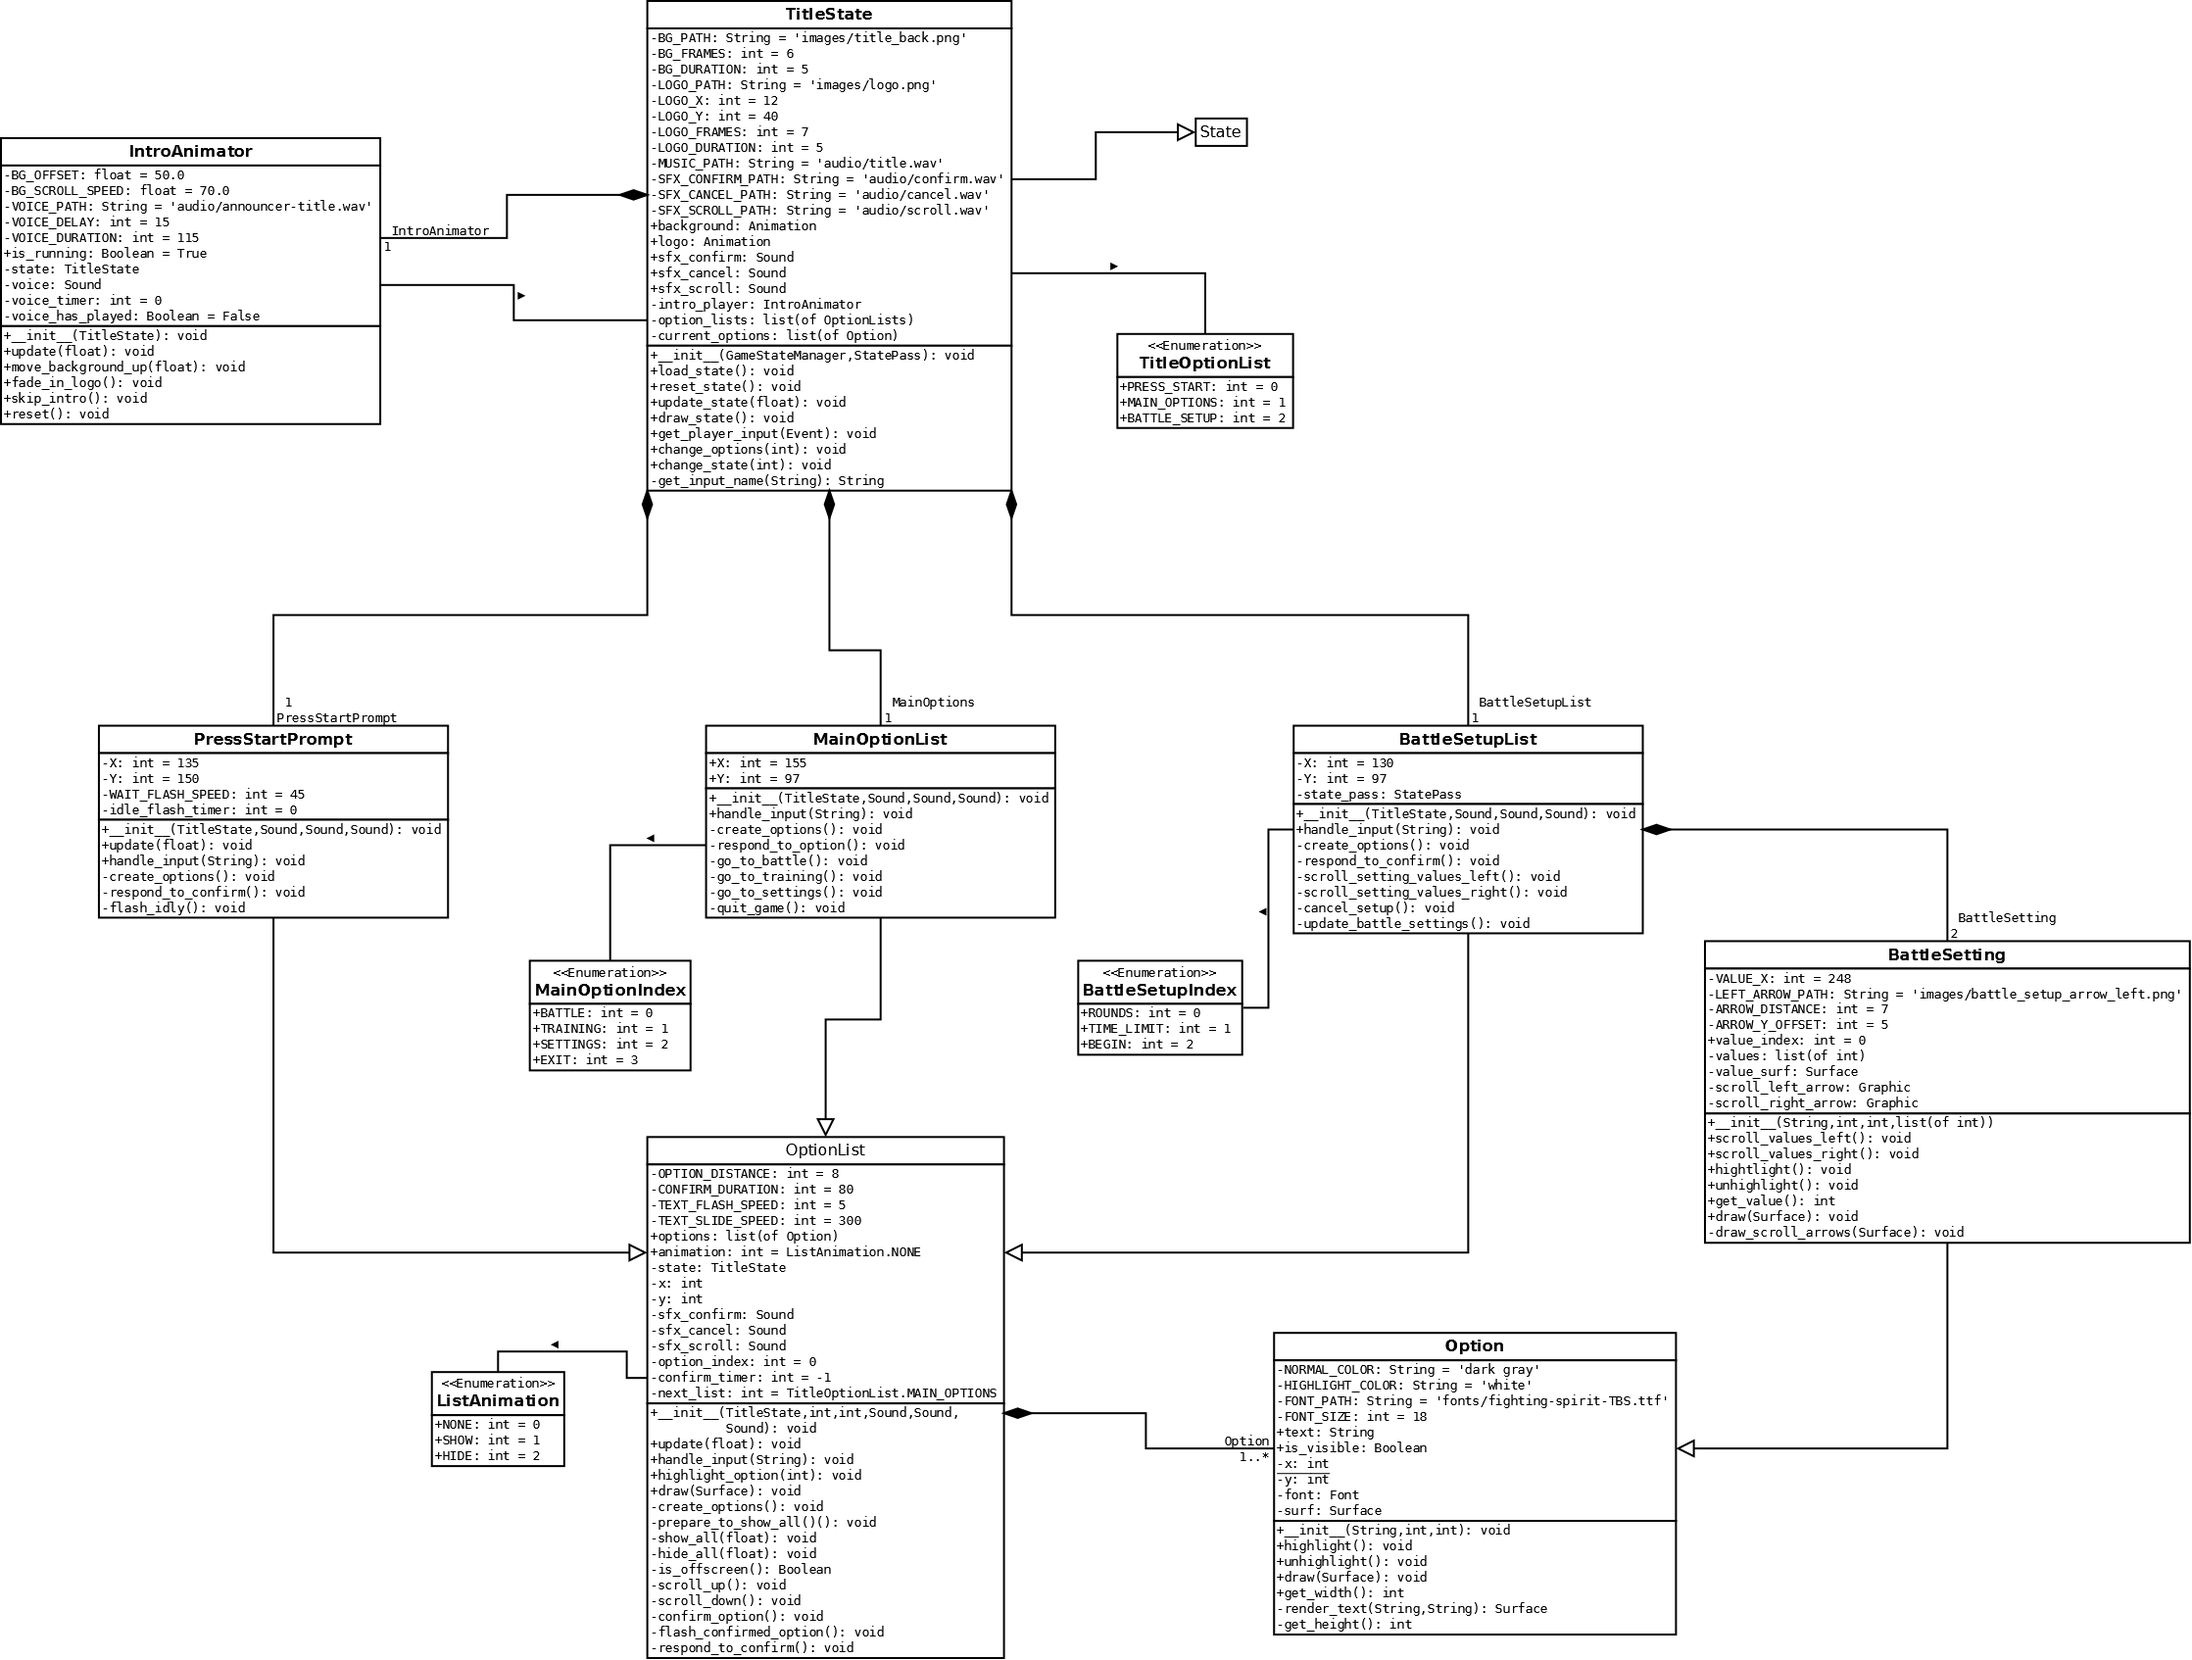
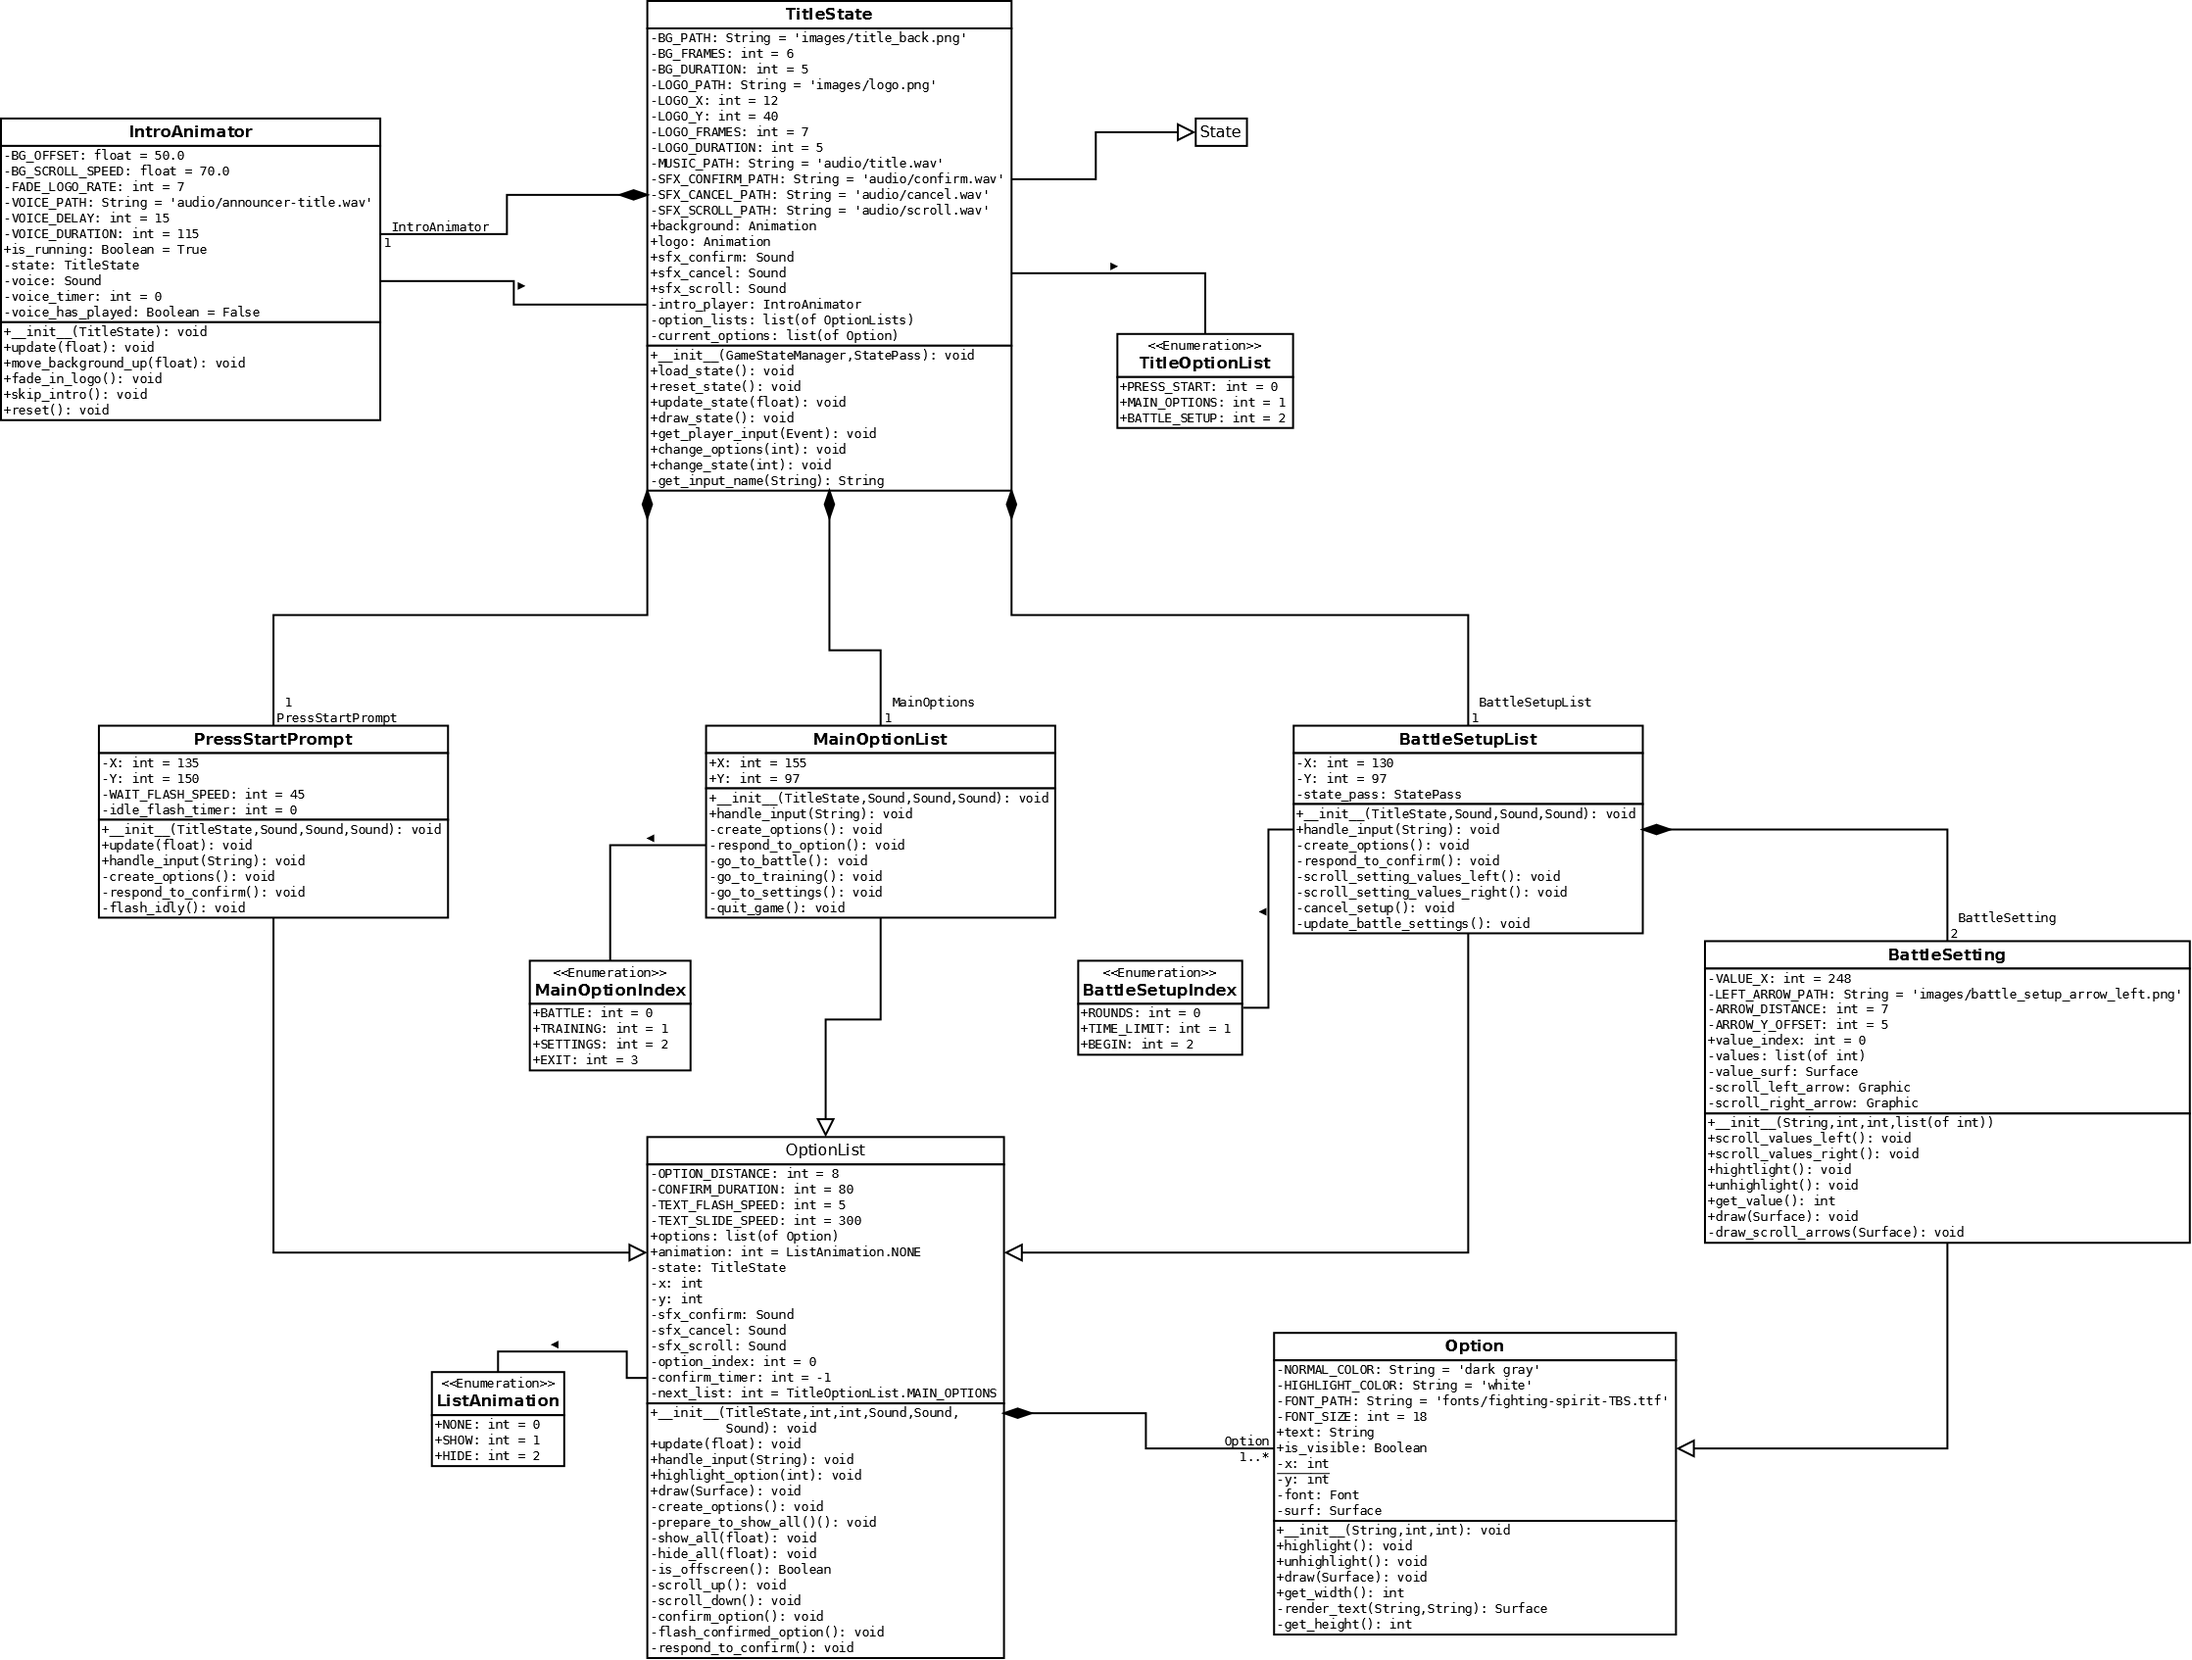
IntroAnimator: Add FADE_LOGO_RATE constant
Again, unnamed numeric constants are bad.

Changed region(s): [[0.0, 0.0614, 0.1542, 0.2763], [0.1542, 0.1228, 0.2468, 0.1842]]

diff --git a/lib/game_states/title_state_new.py b/lib/game_states/title_state_new.py
@@ -44,6 +44,7 @@ class IntroAnimator(object):
     """
     BG_OFFSET = 50.0
     BG_SCROLL_SPEED = 70.0
+    FADE_LOGO_RATE = 7
     VOICE_PATH = 'audio/announcer-title.wav'
     VOICE_DELAY = 15
     VOICE_DURATION = 115
@@ -81,7 +82,7 @@ class IntroAnimator(object):
     def fade_in_logo(self):
         """Gradually increase the opacity of the game logo."""
         old_alpha = self.state.logo.image.get_alpha()
-        self.state.logo.image.set_alpha(old_alpha + 7)
+        self.state.logo.image.set_alpha(old_alpha + self.FADE_LOGO_RATE)
 
     def reset(self):
         """Prepare the animation to be shown."""
